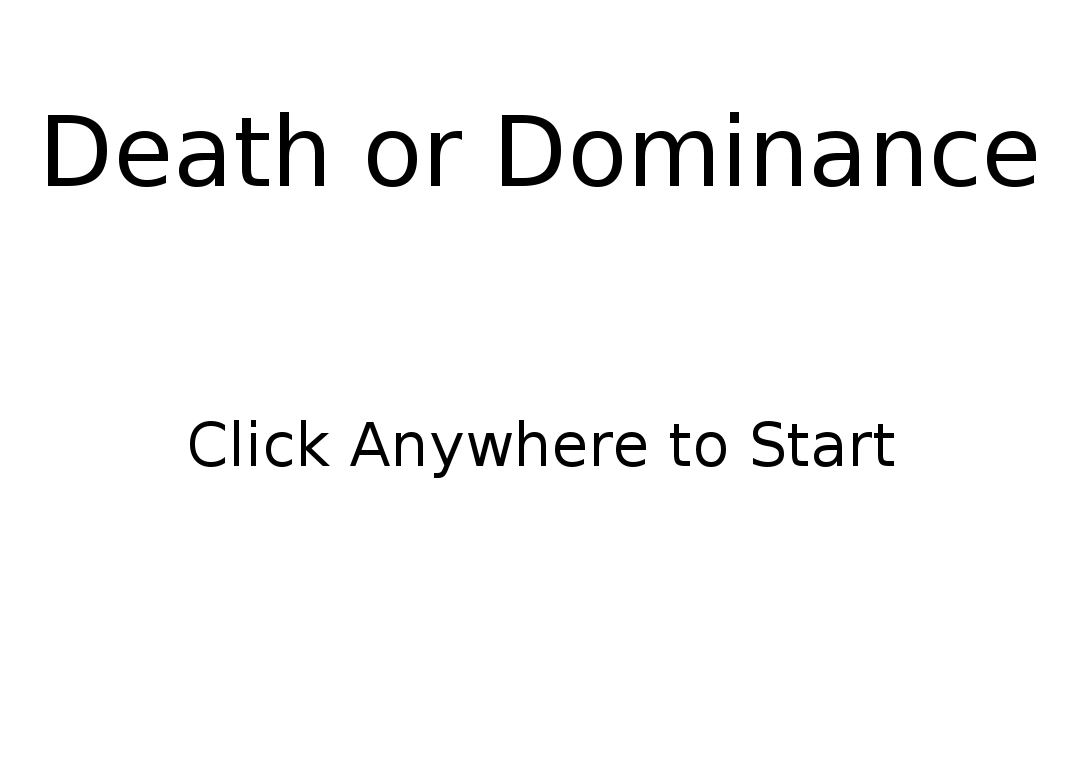
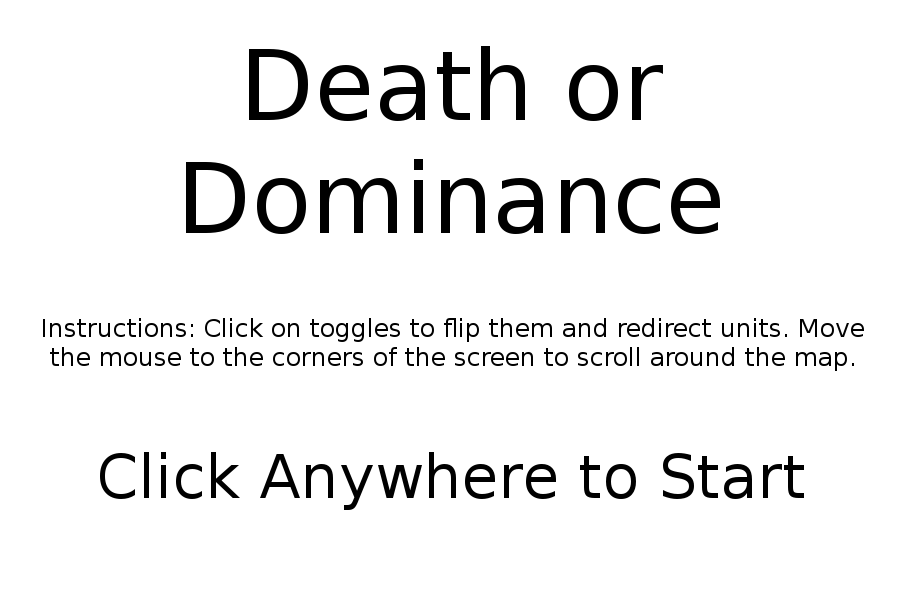
Added mouse scrolling, fixed display bar

diff --git a/DoD/Map.java b/DoD/Map.java
@@ -18,11 +18,13 @@ public class Map extends DoDWorld
     private static final int START_Y = 192;
     private static final int HEX_WIDTH = 120;
     private static final int HEX_HEIGHT = 106;
-    
-    TerritoryStatistic tStat;
-    ManpowerStatistic mpStat;
-   
-    
+
+    int cameraX = 0;
+    int cameraY = 0;
+    public static final int SCROLL_SPEED = 10;
+
+    DisplayBar displayBar;
+
     /**
      * Constructor for objects of class Map.
      * 
@@ -43,8 +45,13 @@ public class Map extends DoDWorld
             }
         }
         buildMap(tileMap);
-        setupDisplayBar();
         setBackground("images/background.png");
+        setupDisplayBar();
+    }
+    
+    public void act() {
+        super.act();
+        scroll();
     }
     
     private void buildMap(HexTile[][] tileMap) {
@@ -158,18 +165,8 @@ public class Map extends DoDWorld
     }
     
     public void setupDisplayBar() {
-        tStat = new TerritoryStatistic(25); //Match to initial territories
-        addObject(tStat, 60, 40);
-        mpStat = new ManpowerStatistic(0);
-        addObject(mpStat, 1500, 40);
-    }
-    
-    public void updateTerritoryStatistic(int newCount) {
-        tStat.update(newCount);
-    }
-    
-    public void updateManpowerStatistic(int newCount) {
-        mpStat.update(newCount);
+        displayBar = new DisplayBar();
+        addObject(displayBar, SCREEN_WIDTH/2, 40);
     }
     
     private void initializeFactionMap() {
@@ -177,6 +174,40 @@ public class Map extends DoDWorld
             Faction newFaction = new Faction();
             newFaction.setFlag(new GreenfootImage("faction" + i + ".png"));
             factions.put(i, newFaction);
+        }
+    }
+    
+        public void scroll() {
+        MouseInfo info = Greenfoot.getMouseInfo();
+        if (info != null) {
+            int shiftX = 0;
+            int shiftY = 0;
+            if (info.getX() < 30 && cameraX > 0) {
+                shiftX = -SCROLL_SPEED;
+            }
+            else if (info.getX() > 870 && cameraX < (1600-900)) {
+                shiftX = SCROLL_SPEED;
+            }
+            if (info.getY() < 110 && cameraY > 0) {
+                shiftY = -SCROLL_SPEED;
+            }
+            else if (info.getY() > 570 && cameraY < (1080-600)) {
+                shiftY = SCROLL_SPEED;
+            }
+            if (shiftX != 0 || shiftY != 0) {
+                cameraX += shiftX;
+                cameraY += shiftY;
+                moveAllObjects(shiftX, shiftY);
+            }
+        }
+    }
+    
+    public void moveAllObjects(int shiftX, int shiftY) {
+        List<Actor> actors = getObjects(Actor.class);
+        for (Actor actor : actors) {
+            if (actor.getClass() != DisplayBar.class) {
+                actor.setLocation(actor.getX() - shiftX, actor.getY() - shiftY);
+            }
         }
     }
 }

diff --git a/DoD/DisplayBar.java b/DoD/DisplayBar.java
@@ -1,4 +1,5 @@
 import greenfoot.*;
+import java.awt.Color;
 
 /**
  * Write a description of class DisplayBar here.
@@ -6,7 +7,34 @@ import greenfoot.*;
  * @author (your name) 
  * @version (a version number or a date)
  */
-public class DisplayBar
+public class DisplayBar extends Actor
 {
+    private static final String territoryText = "Territories: ";
+    private static final String manpowerText = "Manpower: ";
+    private int currentTerritories = Faction.INIT_TERRITORIES;
+    private int currentManpower = 0;
+    private static GreenfootImage BASE_IMAGE = new GreenfootImage("images/DisplayBar.png");
+    public DisplayBar() {
+        BASE_IMAGE.scale(DoDWorld.SCREEN_WIDTH, 80);
+        redrawDisplayBar();
+    }
     
+    public void redrawDisplayBar() {
+        GreenfootImage image = new GreenfootImage(BASE_IMAGE);
+        image.drawImage(new GreenfootImage(territoryText + currentTerritories, 20,
+            Color.BLACK, Color.WHITE), 60, 40);
+        image.drawImage(new GreenfootImage(manpowerText + currentManpower, 20,
+            Color.BLACK, Color.WHITE), 750, 40); 
+        setImage(image);
+    }
+    
+    public void updateManpower(int manpower) {
+        currentManpower = manpower;
+        redrawDisplayBar();
+    }
+    
+    public void updateTerritories(int territories) {
+        currentTerritories = territories;
+        redrawDisplayBar();
+    }
 }

diff --git a/DoD/DoDWorld.java b/DoD/DoDWorld.java
@@ -22,6 +22,9 @@ public class DoDWorld extends World
     private static final int HEX_WIDTH = 120;
     private static final int HEX_HEIGHT = 107;
     
+    public static final int SCREEN_WIDTH = 900;
+    public static final int SCREEN_HEIGHT = 600;
+    
     List<Territory> territories = new ArrayList<Territory>();    
     java.util.Map<Integer, Faction> factions = new HashMap<Integer, Faction>();
     /**
@@ -31,7 +34,7 @@ public class DoDWorld extends World
     public DoDWorld()
     {    
         // Create a new world with 600x400 cells with a cell size of 1x1 pixels.
-        super(1600, 1080, 1); 
+        super(SCREEN_WIDTH, SCREEN_HEIGHT, 1, false); 
         player = new Player();
         
         displayBar = new DisplayBar();

diff --git a/DoD/TitleScreen.java b/DoD/TitleScreen.java
@@ -16,7 +16,7 @@ public class TitleScreen extends World
     public TitleScreen()
     {    
         // Create a new world with 600x400 cells with a cell size of 1x1 pixels.
-        super(1080, 768, 1);
+        super(900, 600, 1);
         setBackground("images/titleScreen.png");
     }
     

diff --git a/DoD/Faction.java b/DoD/Faction.java
@@ -9,7 +9,7 @@ import java.util.ArrayList;
  */
 public class Faction extends Actor
 {
-    int INIT_TERRITORIES = 25;
+    public static final int INIT_TERRITORIES = 25;
 
     int id = 0;
 
